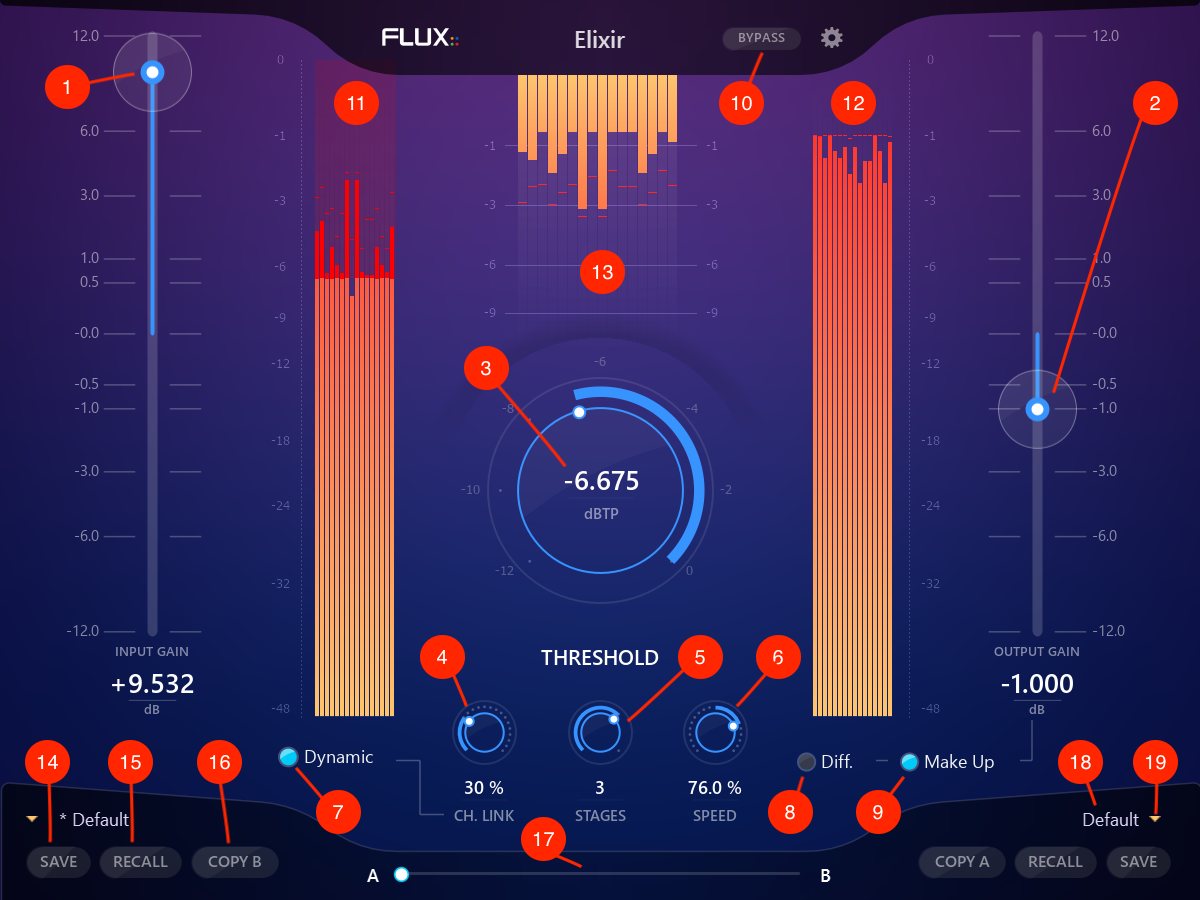
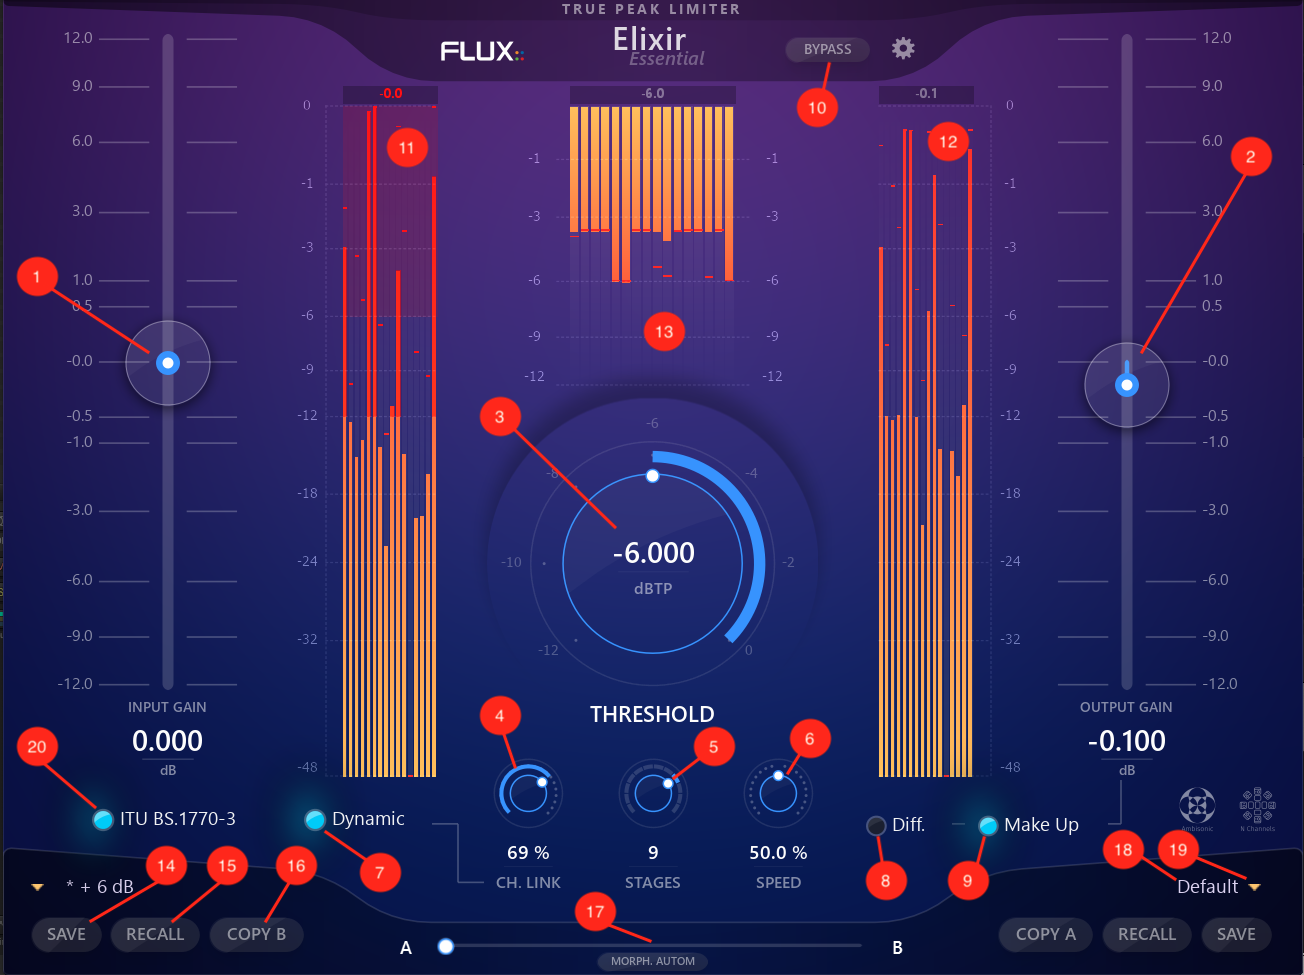
Update image elixir

diff --git a/en_US/elixir_doc/5_User_interface.md b/en_US/elixir_doc/5_User_interface.md
@@ -50,7 +50,7 @@ Default Value: Off
 Bypass the plug-in processing by routing the input direct to the output. 
 The actual processing is still performed in the background allowing for a true and smooth transition between the processed and the actual incoming signal.
 
-### ITU 1770 bs3 mode
+### ITU 1770 bs3 mode (20)
 
 Allow the limitation according to the ITU BS.1770-3 recommandation, i.e. use the ITU algorithm presented on the recommandation to measure the true-peak level.
 
